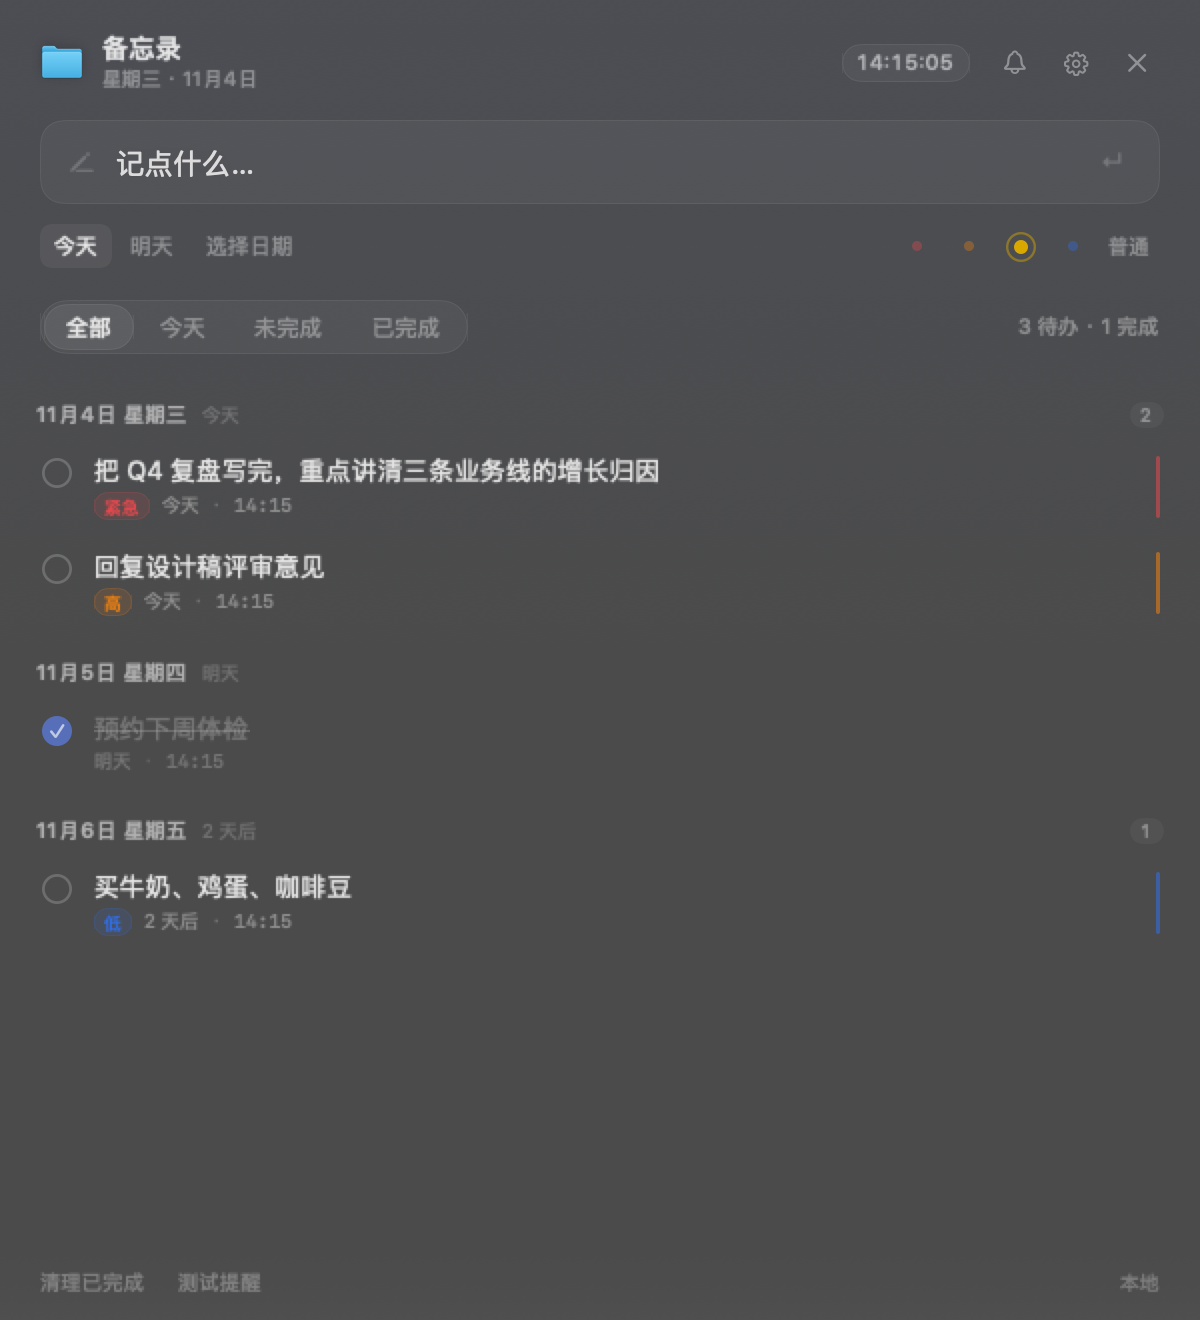
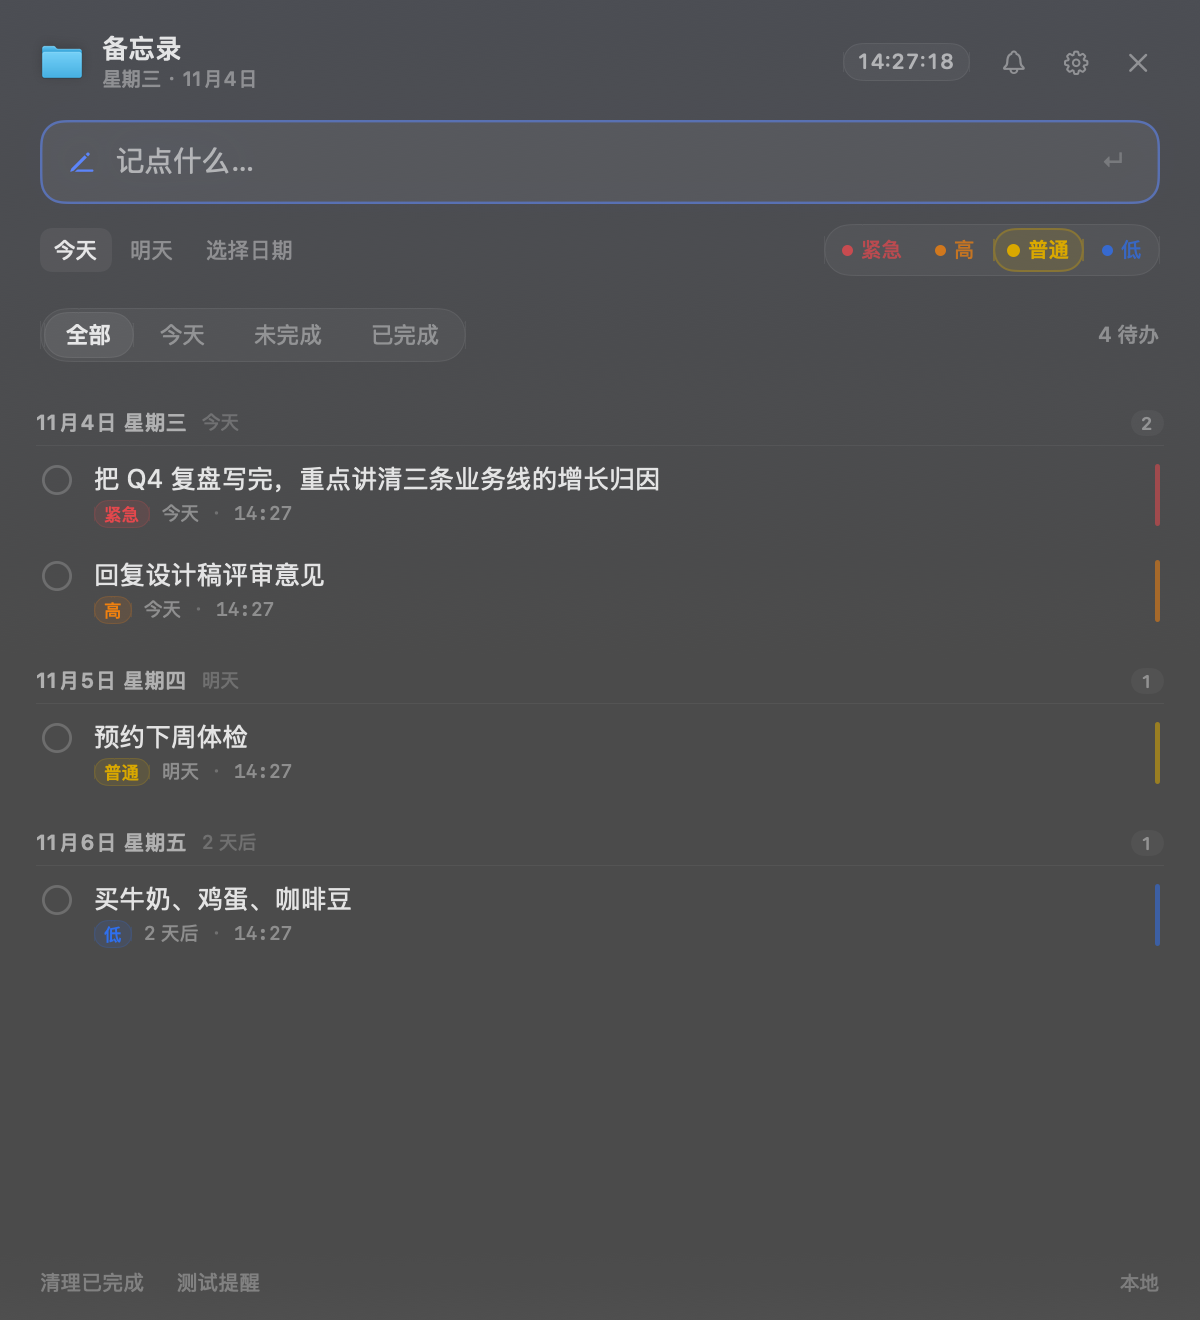
feat(ui): 优先级控件放大重做，动效系统统一
优先级设置原来只是 4 个 17×17 的圆点：可点区域 17pt、圆点直径 5.5pt，
既看不清当前档位，也不好点中，等于摆设。现在改成 4 个并排的分段胶囊：

- 每段带文字（紧急/高/普通/低），不用背颜色含义
- 命中区从 17×17 放大到约 39.5×22，面积约 3 倍
- 未选中档位也用本档颜色（72% 不透明度），四档一眼可分，
  但仍明显弱于选中态
- 选中项共享 matchedGeometryEffect 滑动指示器，切换时平滑移动
- 按下有缩放反馈，悬停有底色提示

动效统一到 Theme 的三档曲线，并补齐细节：
- 列表增删：入场淡入+轻微上移略带回弹，退场干脆收缩
- 勾选圈：完成时实心圆从 0.5 倍放大，配白色对勾淡入；
  命中区外扩 4pt，不必精确瞄准
- 筛选切换、空状态、清空按钮、回车提示都接上统一曲线
- 全部动效尊重「减弱动态效果」辅助功能设置

一个测试教训：先前用 Binding(get:set:) 手写绑定做渲染验证，
它不会触发 ObservableObject 更新，导致我误判「选中态没生效」。
换成 @ObservedObject 包装后四档指纹各不相同，说明实现本身没问题。
验证工具本身也要先验证。

验证：四档优先级色全部渲染检出；64 项单测通过；编译零警告。

diff --git a/Sources/MemoNative/ContentView.swift b/Sources/MemoNative/ContentView.swift
@@ -279,7 +279,7 @@ struct ContentView: View {
                     }
                     .buttonStyle(.plain)
                     .help("清空")
-                    .transition(.scale.combined(with: .opacity))
+                    .transition(.scale(scale: 0.6).combined(with: .opacity))
                 }
 
                 // 回车提示：给「随手记录」一个可发现的出口
@@ -290,8 +290,9 @@ struct ContentView: View {
                     .padding(.vertical, 2)
                     .background(
                         RoundedRectangle(cornerRadius: 4)
-                            .fill(inputFocused && !ui.draft.isEmpty ? Theme.accent.opacity(0.12) : Color.clear)
+                            .fill(inputFocused && !ui.draft.isEmpty ? Theme.accent.opacity(0.14) : Color.clear)
                     )
+                    .scaleEffect(inputFocused && !ui.draft.isEmpty ? 1.06 : 1)
             }
             .padding(.horizontal, 13)
             .padding(.vertical, 12)
@@ -337,20 +338,9 @@ struct ContentView: View {
 
                 Spacer(minLength: 8)
 
-                HStack(spacing: 9) {
-                    ForEach(Priority.allCases) { level in
-                        DotPicker(
-                            level: level,
-                            selected: ui.priority == level
-                        ) {
-                            withAnimation(.easeOut(duration: 0.16)) { ui.priority = level }
-                        }
-                    }
-                    Text(ui.priority.label)
-                        .font(.system(size: 10.5))
-                        .foregroundStyle(Theme.inkTertiary)
-                        .frame(width: 26, alignment: .leading)
-                }
+                // 优先级：四档并排，带文字与色块。
+                // 原来只有 17×17 的圆点，既难看清也难点中，这里整体放大。
+                PriorityPicker(selected: $ui.priority)
             }
             .animation(.spring(response: 0.3, dampingFraction: 0.88), value: ui.dueMode)
         }
@@ -448,6 +438,15 @@ struct ContentView: View {
                                         },
                                         onCancelEdit: { ui.editingID = nil }
                                     )
+                                    // 增删时整行淡入并轻微上移，而不是瞬间闪现
+                                    .transition(
+                                        .asymmetric(
+                                            insertion: .opacity
+                                                .combined(with: .move(edge: .top))
+                                                .combined(with: .scale(scale: 0.97, anchor: .top)),
+                                            removal: .opacity.combined(with: .scale(scale: 0.97, anchor: .leading))
+                                        )
+                                    )
                                 }
                             } header: {
                                 GroupHeader(key: group.key, items: group.items)
@@ -456,12 +455,15 @@ struct ContentView: View {
                     }
                     .padding(.horizontal, 8)
                     .padding(.bottom, 8)
-                    .animation(.spring(response: 0.34, dampingFraction: 0.85), value: visibleItems.map(\.id))
+                    // 用 id 序列驱动动画：只有增删/换序才动，改文字不闪
+                    .animation(Theme.rowInsert, value: visibleItems.map(\.id))
+                    .animation(Theme.easeMedium, value: ui.filter)
                 }
                 .scrollIndicators(.never)
                 .background(Color.clear)
             }
         }
+        .animation(Theme.easeMedium, value: visibleItems.isEmpty)
     }
 
     private var emptyState: some View {
@@ -494,6 +496,7 @@ struct ContentView: View {
             Spacer()
         }
         .frame(maxWidth: .infinity)
+        .transition(.opacity.combined(with: .scale(scale: 0.96)))
     }
 
     // MARK: 底部
@@ -628,11 +631,49 @@ struct QuietChip: View {
     }
 }
 
-// MARK: - 优先级圆点
+// MARK: - 优先级选择器
+//
+// 旧版是 4 个 17×17 的圆点：直径 5.5pt 的点、17pt 的命中区，
+// 既看不清当前档位，也很难点中。现在改成 4 个并排的分段胶囊：
+//   * 每段都有文字，不用背颜色含义
+//   * 命中区放大到 22pt 高、每段约 44pt 宽
+//   * 选中项共享一个滑动指示器，切换时平滑过渡
 
-struct DotPicker: View {
+struct PriorityPicker: View {
+    @Binding var selected: Priority
+
+    @Namespace private var indicator
+    @Environment(\.accessibilityReduceMotion) private var reduceMotion
+
+    var body: some View {
+        HStack(spacing: 2) {
+            ForEach(Priority.allCases) { level in
+                PrioritySegment(
+                    level: level,
+                    isSelected: selected == level,
+                    indicatorNamespace: indicator,
+                    reduceMotion: reduceMotion
+                ) {
+                    guard selected != level else { return }
+                    if reduceMotion {
+                        selected = level
+                    } else {
+                        withAnimation(Theme.springSnappy) { selected = level }
+                    }
+                }
+            }
+        }
+        .padding(2)
+        .background(Capsule().fill(Theme.surface))
+        .overlay(Capsule().strokeBorder(Theme.stroke, lineWidth: Theme.hairline))
+    }
+}
+
+private struct PrioritySegment: View {
     let level: Priority
-    let selected: Bool
+    let isSelected: Bool
+    let indicatorNamespace: Namespace.ID
+    let reduceMotion: Bool
     let action: () -> Void
 
     @StateObject private var hover = HoverState()
@@ -640,30 +681,57 @@ struct DotPicker: View {
     @MainActor
     final class HoverState: ObservableObject {
         @Published var hovering = false
+        @Published var pressed = false
     }
 
     var body: some View {
         Button(action: action) {
-            ZStack {
-                // 选中的圆点外套一圈极淡的环，替代胶囊底色
+            HStack(spacing: 4) {
                 Circle()
-                    .strokeBorder(level.tint.opacity(selected ? 0.45 : 0), lineWidth: 1.2)
-                    .frame(width: 15, height: 15)
+                    .fill(level.tint.opacity(isSelected ? 1.0 : 0.80))
+                    .frame(width: isSelected ? 6.5 : 5.5, height: isSelected ? 6.5 : 5.5)
 
-                Circle()
-                    .fill(level.tint.opacity(selected ? 1.0 : 0.35))
-                    .frame(width: selected ? 7 : 5.5, height: selected ? 7 : 5.5)
+                Text(level.label)
+                    .font(.system(size: 10.5, weight: isSelected ? .semibold : .medium))
+                    // 未选中也用本档颜色的深色版，而不是统一灰：
+                    // 四档一眼可分，但仍明显弱于选中态
+                    .foregroundStyle(isSelected ? level.tint : level.tint.opacity(0.72))
+                    .lineLimit(1)
+                    .fixedSize()
             }
-            .frame(width: 17, height: 17)
-            .contentShape(Rectangle())
-            .opacity(hover.hovering && !selected ? 0.85 : 1)
+            .padding(.horizontal, 7)
+            .frame(height: 22)
+            // 命中区比视觉高度再高一点，避免「看着点到了其实没点到」
+            .contentShape(Rectangle().inset(by: -3))
+            .background {
+                if isSelected {
+                    Capsule()
+                        .fill(level.tint.opacity(0.13))
+                        .overlay(
+                            Capsule().strokeBorder(level.tint.opacity(0.30), lineWidth: 1)
+                        )
+                        .matchedGeometryEffect(id: "priorityIndicator", in: indicatorNamespace)
+                } else if hover.hovering {
+                    Capsule().fill(Theme.surfaceHover)
+                }
+            }
+            .scaleEffect(hover.pressed ? 0.94 : 1)
         }
         .buttonStyle(.plain)
         .help("⌘\(level.rank + 1) · \(level.label)")
         .onHover { inside in
-            withAnimation(.easeOut(duration: 0.12)) { hover.hovering = inside }
+            withAnimation(Theme.easeFast) { hover.hovering = inside }
         }
-        .animation(.spring(response: 0.24, dampingFraction: 0.7), value: selected)
+        .simultaneousGesture(
+            DragGesture(minimumDistance: 0)
+                .onChanged { _ in
+                    if !hover.pressed { withAnimation(Theme.easeFast) { hover.pressed = true } }
+                }
+                .onEnded { _ in
+                    withAnimation(Theme.springSnappy) { hover.pressed = false }
+                }
+        )
+        .animation(reduceMotion ? nil : Theme.springSnappy, value: isSelected)
     }
 }
 
@@ -842,6 +910,7 @@ struct MemoRow: View {
     @MainActor
     final class HoverState: ObservableObject {
         @Published var hovering = false
+        @Published var pressed = false
     }
 
     var body: some View {
@@ -851,7 +920,7 @@ struct MemoRow: View {
                 ZStack {
                     Circle()
                         .strokeBorder(
-                            item.done ? Color.clear : (hover.hovering ? Theme.accent.opacity(0.6) : Color.primary.opacity(0.22)),
+                            hover.hovering && !item.done ? Theme.accent.opacity(0.7) : Color.primary.opacity(0.22),
                             lineWidth: 1.4
                         )
                         .frame(width: 15, height: 15)
@@ -860,16 +929,30 @@ struct MemoRow: View {
                         Circle()
                             .fill(Theme.accent)
                             .frame(width: 15, height: 15)
+                            .transition(.scale(scale: 0.5))
                         Image(systemName: "checkmark")
                             .font(.system(size: 8, weight: .bold))
                             .foregroundStyle(.white)
+                            .transition(.scale(scale: 0.4).combined(with: .opacity))
                     }
                 }
                 .frame(width: 17, height: 17)
-                .contentShape(Rectangle())
+                // 命中区放大：17pt 的圆圈实际可点范围更大，不必精确瞄准
+                .contentShape(Circle().inset(by: -4))
+                .scaleEffect(hover.pressed ? 0.88 : 1)
+                .animation(Theme.springBouncy, value: item.done)
             }
             .buttonStyle(.plain)
             .help(item.done ? "标记为未完成" : "标记为已完成")
+            .simultaneousGesture(
+                DragGesture(minimumDistance: 0)
+                    .onChanged { _ in
+                        if !hover.pressed { withAnimation(Theme.easeFast) { hover.pressed = true } }
+                    }
+                    .onEnded { _ in
+                        withAnimation(Theme.springBouncy) { hover.pressed = false }
+                    }
+            )
             .padding(.top, 0.5)
 
             VStack(alignment: .leading, spacing: 2) {

diff --git a/Sources/MemoNative/DesignSystem.swift b/Sources/MemoNative/DesignSystem.swift
@@ -36,9 +36,20 @@ enum Theme {
     static let strokeStrong = Color.primary.opacity(0.12)
 
     // 动效
+    //
+    // 三档曲线，用途分明：
+    //   snappy —— 点击、切换等「即时反馈」，要快
+    //   soft   —— 大块内容的进出场，要稳
+    //   easeFast —— 悬停这类高频、低幅的变化，快到几乎无感
     static let springSnappy = Animation.spring(response: 0.26, dampingFraction: 0.80)
     static let springSoft = Animation.spring(response: 0.36, dampingFraction: 0.86)
+    static let springBouncy = Animation.spring(response: 0.34, dampingFraction: 0.70)
     static let easeFast = Animation.easeOut(duration: 0.14)
+    static let easeMedium = Animation.easeInOut(duration: 0.22)
+
+    /// 列表增删的动效：入场略带弹跳，退场干脆
+    static let rowInsert = Animation.spring(response: 0.38, dampingFraction: 0.76)
+    static let rowRemove = Animation.easeIn(duration: 0.16)
 }
 
 // 优先级配色，与 App 图标里的四个点一致
